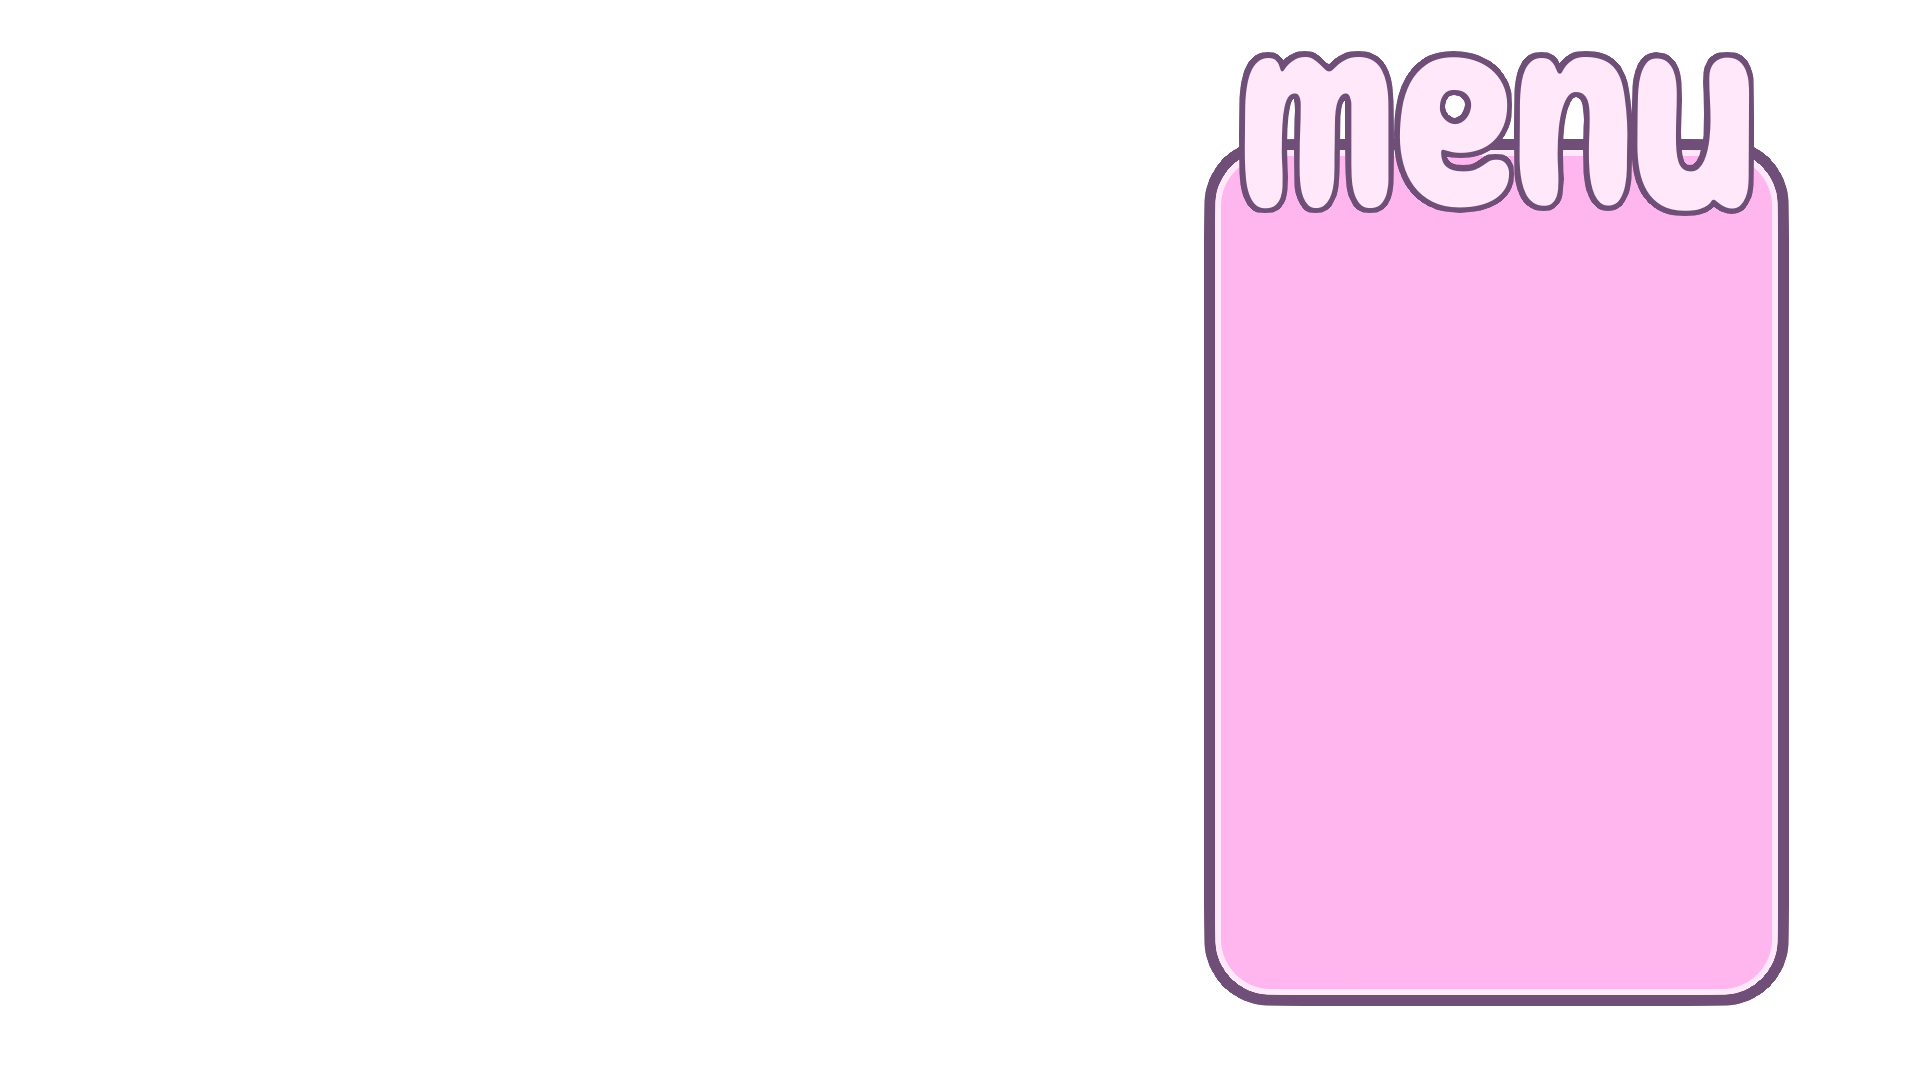
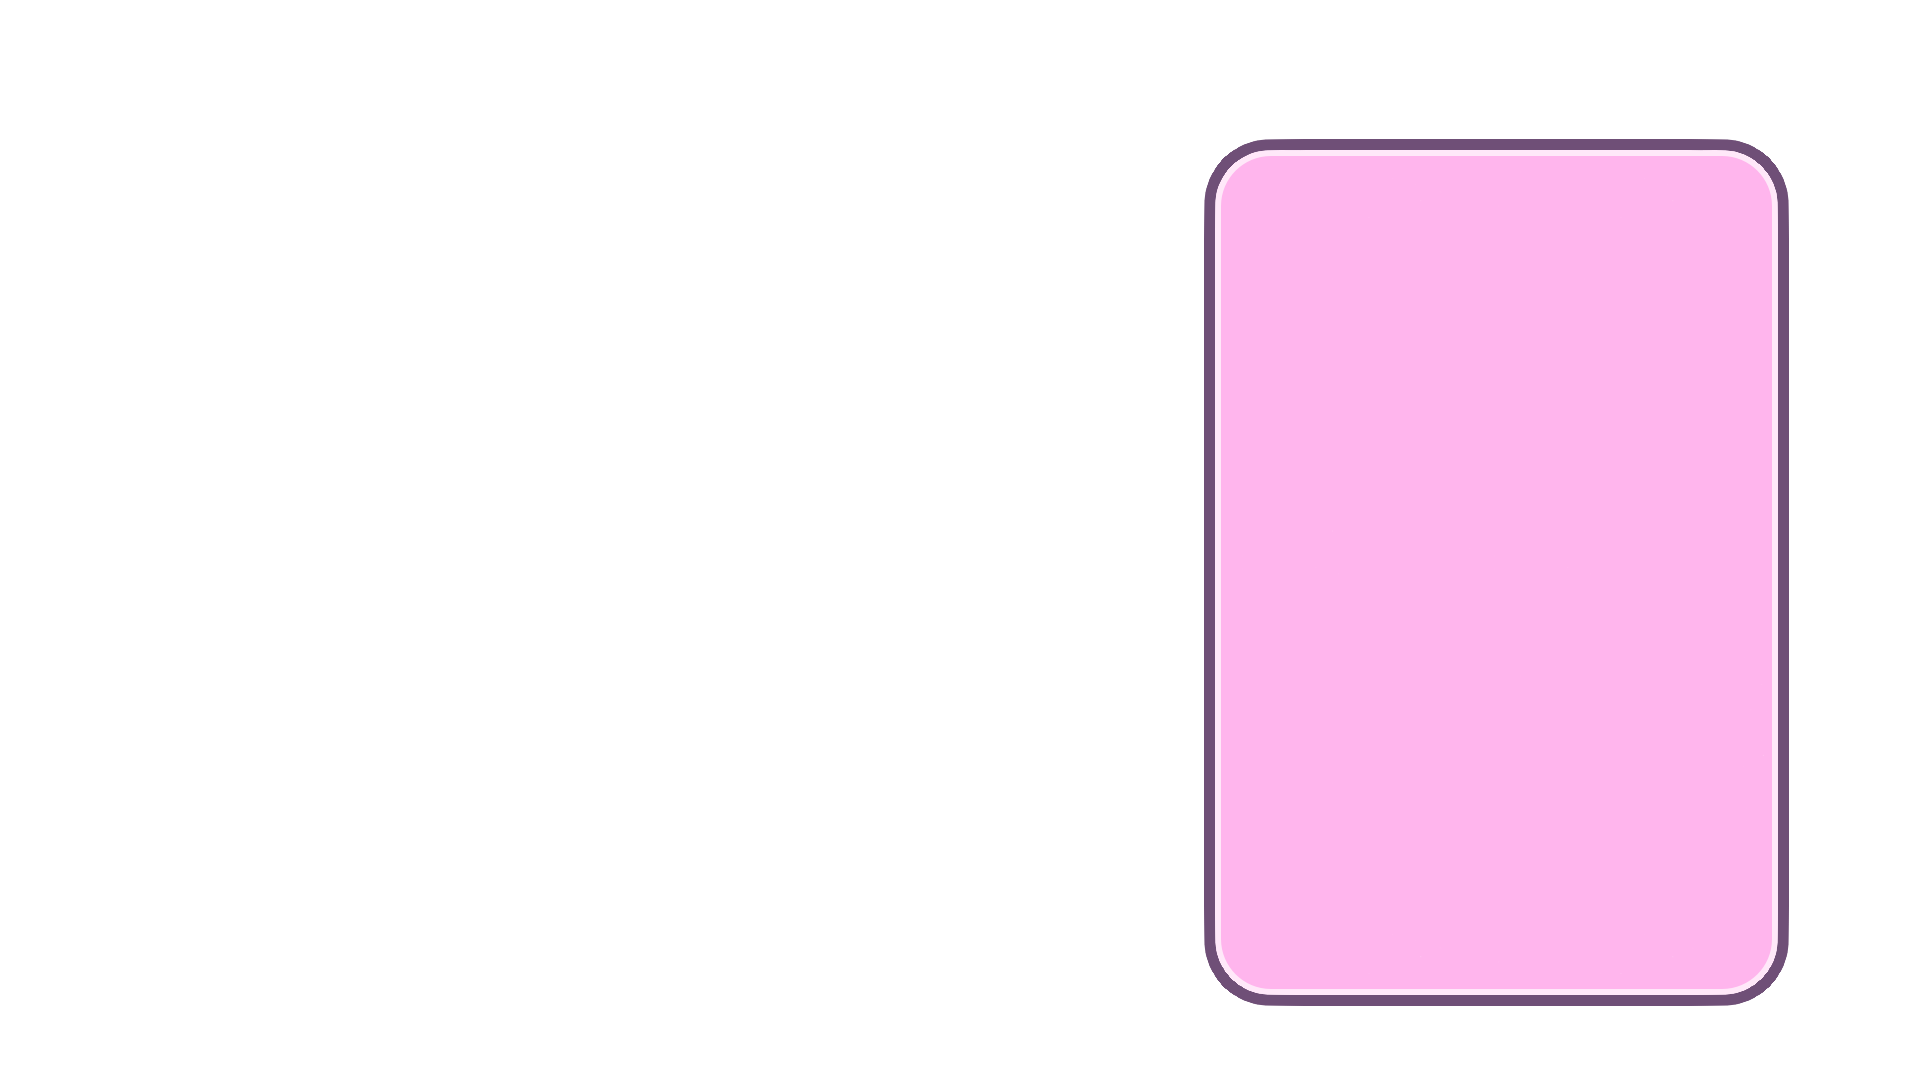
Removed header from menu box on start screen. Tweaked anime_jacket. Added custom cursor.

Changed region(s): [[0.625, 0.0306, 0.9375, 0.2139], [0.6562, 0.0306, 0.7188, 0.0611]]

diff --git a/randomcharactergenerator/main.py b/randomcharactergenerator/main.py
@@ -178,6 +178,11 @@ class Game:
         asset_location = os.path.join(current_dir, "assets")
 
         # Imports
+        cursor_surf = pg.image.load(join(asset_location, 'img', 'ui', 'mouse.png')).convert_alpha()
+        cursor = pg.cursors.Cursor((0,0), cursor_surf)
+        pg.mouse.set_cursor(cursor)
+        
+        
         self.player_parts = {}
         for folder_path, sub_folders, file_names in walk(join(asset_location, "img", "player_pieces")):
             if file_names:
@@ -203,9 +208,9 @@ class Game:
         self.display.fill('black')
         
         # Sprites
-        start_button = Button(self.start_sprites, 'start', self.button_surfs, (1500, 360), self.font)
-        options_button = Button(self.start_sprites, 'options', self.button_surfs, (1500, 590), self.font)
-        close_button = Button(self.start_sprites, 'close', self.button_surfs, (1500, 820), self.font)
+        start_button = Button(self.start_sprites, 'start', self.button_surfs, (1500, 340), self.font)
+        options_button = Button(self.start_sprites, 'options', self.button_surfs, (1500, 570), self.font)
+        close_button = Button(self.start_sprites, 'close', self.button_surfs, (1500, 800), self.font)
         
         menu_box = pg.image.load(join('assets', 'img', 'ui', 'start_menu_box.png')).convert_alpha()
         
